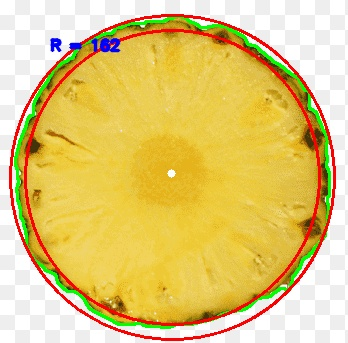
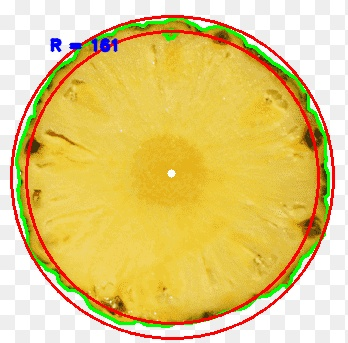
server test

Changed region(s): [[0.0, 0.0292, 0.977, 1.0]]

diff --git a/test.py b/test.py
@@ -1,98 +1,121 @@
-import cv2
-import numpy as np
 from scipy.spatial import distance as dist
+from imutils import perspective
+from imutils import contours
+import numpy as np
+import imutils
+import cv2
+
+class obj_size():
+
+    def __init__(self, image_path, width):
+        self.image_path = image_path
+        self.width = width
+
+    # Define midpoint coordinate operation
+    def midpoint(ptA, ptB):
+        return ((ptA[0] + ptB[0]) * 0.5, (ptA[1] + ptB[1]) * 0.5)
 
 
-# Define midpoint coordinate operation
-def midpoint(ptA, ptB):
-    return ((ptA[0] + ptB[0]) * 0.5, (ptA[1] + ptB[1]) * 0.5)
+    def compute(self):
+        # load image, convert grayscale, blur
+        image = cv2.imread(self.image_path)
+        gray = cv2.cvtColor(image, cv2.COLOR_RGB2GRAY)
+        gray = cv2.GaussianBlur(gray, (5,5), 0)
+        # perform edge detection, then perform a dilation + erosion to
+        # close gaps in between object edges
+        edged = cv2.Canny(gray, 50, 100)
+        edged = cv2.dilate(edged, None, iterations=1)
+        edged = cv2.erode(edged, None, iterations=1)
 
+        # Binary image
+        # ret, thresh = cv2.threshold(edged.copy(), 150, 200, 0)
+        # Calculate the coordinates of the four corner points of the black square
+        cnts, hierarchy = cv2.findContours(edged.copy(), cv2.RETR_EXTERNAL, cv2.CHAIN_APPROX_SIMPLE)
 
-def measure(img):
-    gray = cv2.cvtColor(img, cv2.COLOR_RGB2GRAY)
-    # Binary image
-    ret, thresh = cv2.threshold(gray, 150, 200, 0)
-    # Calculate the coordinates of the four corner points of the black square
-    contours, hierarchy = cv2.findContours(thresh, 1, 2)
-    for cnt in contours:
-        area = cv2.contourArea(cnt)
-        if area > 500:
-            print(area)
+        cnts = cnts[0] if imutils.is_cv2() else cnts[1]
+        # sort the contours from left-to-right and initialize the
+        # 'pixels per metric' calibration variable
+        (cnts, _) = contours.sort_contours(cnts)
+        pixelsPerMetric = None
 
-            # Find the geometric distance of the outline
-            M = cv2.moments(cnt)
-            # Get the bounding rectangle of the outline, x, y is the coordinate point of the upper left corner of the
-            # green frame, w, h is the length and width of the green frame
-            x, y, w, h = cv2.boundingRect(cnt)
-            # Calculate the minimum outline, red frame
-            rect = cv2.minAreaRect(cnt)
-            # Calculate the image coordinates of the four corners of the red frame
-            box = cv2.boxPoints(rect)
-            #  is an integer, so the coordinates are converted to integer
-            box = np.int0(box)
+        # define a list for keeping length or each object
+        mylist = []
+        for cnt in cnts:
+            area = cv2.contourArea(cnt)
+            if area > 500:
+                print(area)
+                # compute the rotated bounding box ò the contour
+                orig = image.copy()
+                box = cv2.minAreaRect(cnt)
+                box = cv2.boxPoints(box)
+                box = np.array(box, dtype="int")
 
-            if M['m00'] != 0:
-                # print(M)
-                cx = int(M['m10'] / M['m00'])
-                cy = int(M['m01'] / M['m00'])
-                # Based on the center point obtained by the geometric distance, draw the center circle, blocked by the
-                # blue line, so you can't see it.
-                cv2.circle(img, (np.int(cx), np.int(cy)), 2, (0, 255, 255), -1)
+                box = perspective.order_points(box)
+                cv2.drawContours(orig, [box.astype("int")], -1, (0,255,0), 2)
 
-                cv2.rectangle(img, (x, y), (x + w, y + h), (0, 255, 0), 2)
-
-                cv2.drawContours(img, [box], 0, (0, 0, 255), 2)
                 for (x, y) in box:
-                    cv2.circle(img, (int(x), int(y)), 5, (0, 0, 255), -1)
-                    # tl upper left corner image coordinate, tr upper right corner image coordinate,
-                    # br lower right corner image coordinate, bl lower left corner image coordinate
-                    (tl, tr, br, bl) = box
-                    # Calculate the center point of the 4 sides of the red frame
-                    (tltrX, tltrY) = midpoint(tl, tr)
-                    (blbrX, blbrY) = midpoint(bl, br)
-                    (tlblX, tlblY) = midpoint(tl, bl)
-                    (trbrX, trbrY) = midpoint(tr, br)
-                    #
-                    cv2.circle(img, (int(tltrX), int(tltrY)), 5, (255, 0, 0), -1)
-                    cv2.circle(img, (int(blbrX), int(blbrY)), 5, (255, 0, 0), -1)
-                    cv2.circle(img, (int(tlblX), int(tlblY)), 5, (255, 0, 0), -1)
-                    cv2.circle(img, (int(trbrX), int(trbrY)), 5, (255, 0, 0), -1)
-                    #  4 points, that is, 2 blue lines in the picture
-                    cv2.line(img, (int(tltrX), int(tltrY)), (int(blbrX), int(blbrY)),
-                             (255, 0, 0), 2)
-                    cv2.line(img, (int(tlblX), int(tlblY)), (int(trbrX), int(trbrY)),
-                             (255, 0, 0), 2)
-                    # Calculate the coordinates of the center point
-                    dA = dist.euclidean((tltrX, tltrY), (blbrX, blbrY))
-                    dB = dist.euclidean((tlblX, tlblY), (trbrX, trbrY))
-                    # Convert the image length to the actual length, 6.5 is equivalent to the scale, I use the mm unit,
-                    # that is, 1mm is equivalent to 6.5 images
+                    cv2.circle(orig, (int(x), int(y)), 5, (0, 0, 255), -1)
 
-                    dimA = dA / 6.5
-                    dimB = dB / 6.5
-                    # Print the calculation result on the original image, which is the yellow content.
+                (tl, tr, br, bl) = box
+                (tltrX, tltrY) = self.midpoint(tl, tr)
+                (blbrX, blbrY) = self.midpoint(bl, br)
 
-                    cv2.putText(img, "{:.1f}mm".format(dimA),
-                                (int(tltrX - 15), int(tltrY - 10)), cv2.FONT_HERSHEY_SIMPLEX,
-                                0.65, (0, 255, 255), 2)
-                    cv2.putText(img, "{:.1f}mm".format(dimB),
-                                (int(trbrX + 10), int(trbrY)), cv2.FONT_HERSHEY_SIMPLEX,
-                                0.65, (0, 255, 255), 2)
-        cv2.imshow("mo", img)
+                # compute the midpoint between the top-left and top-right points,
+                # followed by the midpoint between the top-righ and bottom-right
+                (tlblX, tlblY) = self.midpoint(tl, bl)
+                (trbrX, trbrY) = self.midpoint(tr, br)
 
+                # draw the midpoints on the image
+                cv2.circle(orig, (int(tltrX), int(tltrY)), 5, (255, 0, 0), -1)
+                cv2.circle(orig, (int(blbrX), int(blbrY)), 5, (255, 0, 0), -1)
+                cv2.circle(orig, (int(tlblX), int(tlblY)), 5, (255, 0, 0), -1)
+                cv2.circle(orig, (int(trbrX), int(trbrY)), 5, (255, 0, 0), -1)
 
-# Start the camera and set the resolution
-cap = cv2.VideoCapture(0)
-cap.set(cv2.CAP_PROP_FRAME_WIDTH, 800)
-cap.set(cv2.CAP_PROP_FRAME_HEIGHT, 600)
-# ret, frame = cap.read()
-# img = cv2.flip(frame, -1)
-img = cv2.imread('3.jpg')
-# Create a GUI window in the form of adaptive
-cv2.namedWindow("input image", cv2.WINDOW_AUTOSIZE)
-# Contact the image and window by name
-cv2.imshow("input image", img)
-cv2.waitKey(0)
-measure(img)
-cv2.waitKey(0)
+                # draw lines between the midpoints
+                ###cv2.line(orig, (int(tltrX), int(tltrY)), (int(blbrX), int(blbrY)),
+                ###	(255, 0, 255), 2)
+                ###cv2.line(orig, (int(tlblX), int(tlblY)), (int(trbrX), int(trbrY)),
+                ###	(255, 0, 255), 2)
+
+                cv2.line(orig, (int(tr[0]), int(tr[1])), (int(bl[0]), int(bl[1])),
+                         (255, 0, 255), 2)
+                cv2.line(orig, (int(tlblX), int(tlblY)), (int(trbrX), int(trbrY)),
+                         (255, 0, 255), 2)
+
+                # compute the Euclidean distance between the midpoints
+                ###dA = dist.euclidean((tltrX, tltrY), (blbrX, blbrY))
+                ###dB = dist.euclidean((tlblX, tlblY), (trbrX, trbrY))
+                dA = dist.euclidean((tr[0], tr[1]), (bl[0], bl[1]))
+                dB = dist.euclidean((tlblX, tlblY), (trbrX, trbrY))
+                # if the pixels per metric has not been initialized, then
+                # compute it as the ratio of pixels to supplied metric
+                # (in this case, inches)
+                if pixelsPerMetric is None:
+                    pixelsPerMetric = dB / self.width
+
+                # compute the size of the object
+                dimA = dA / pixelsPerMetric
+                dimB = dB / pixelsPerMetric
+
+                # keep dimB value in a list
+                mylist.append(dimA)
+                ##print (mylist[-1])
+
+                # draw the object sizes on the image
+                ##cv2.putText(orig, "{:.1f}in".format(dimA),
+                ##	(int(tr[0] - 15), int(tr[1] - 10)), cv2.FONT_HERSHEY_SIMPLEX,
+                ##	0.65, (255, 255, 255), 2)
+                ##cv2.putText(orig, "{:.1f}in".format(dimB),
+                ##	(int(trbrX + 10), int(trbrY)), cv2.FONT_HERSHEY_SIMPLEX,
+                ##	0.65, (255, 255, 255), 2)
+
+                # show the output image
+                ##cv2.imshow("Image", orig)
+                ##cv2.waitKey(0)
+                ##cv2.waitKey(0)
+                ##cv2.waitKey(0)
+                ##cv2.waitKey(0)
+
+                # print all dimB in a list
+            return str(mylist[-1])
 

diff --git a/test___.py b/test___.py
@@ -2,14 +2,14 @@ import cv2
 import numpy as np
 import imutils
 
-def getContours(img, cThr=None, minArea=7000):
+def getContours(img, cThr=None, minArea=10):
     if cThr is None:
         cThr = [100, 100]
     imgGray = cv2.cvtColor(img, cv2.COLOR_BGR2GRAY)
     imgBlur = cv2.GaussianBlur(imgGray, (5, 5), 0)
     imgCanny = cv2.Canny(imgBlur, cThr[0], cThr[1])
     kernel = np.ones((3, 3))
-    imgDial = cv2.dilate(imgCanny, kernel, iterations=3)
+    imgDial = cv2.dilate(imgCanny, kernel, iterations=2)
     imgThre = cv2.erode(imgDial, kernel, iterations=2)
 
     contours, hierarchy = cv2.findContours(imgThre,
@@ -25,32 +25,29 @@ def getContours(img, cThr=None, minArea=7000):
 
             # draw the contour and center of the shape on the image
             cv2.drawContours(image, [i], -1, (0, 255, 0), 2)
-            # cv2.drawContours(image, [contours[-1]], -1, (0, 255, 0), 2)
+            cv2.drawContours(image, [contours[-1]], -1, (0, 255, 0), 2)
             cv2.circle(image, (cX, cY), 4, (255, 255, 255), -1)
 
             # find radius contours
             (x, y), radius = cv2.minEnclosingCircle(i)
             center = (int(x), int(y))
             radius = int(radius)
-            cv2.circle(image, center, radius, (0, 0, 255), 2)
+            cv2.circle(image, center, radius + 15, (0, 0, 255), 2)
             cv2.circle(image, center, radius - 15, (0, 0, 255), 2)
             # Using cv2.putText() method
             cv2.putText(image, 'R = {}'.format(radius), (50,50), cv2.FONT_HERSHEY_SIMPLEX, 0.5, (255, 0, 0), 2, cv2.LINE_AA)
-            print('Ban kinh: {}'.format((radius)*2/100), 'mm')
 
-            print('Ban kinh: {}'.format((radius - 15)*2/100), 'mm')
-            # cv2.imshow('Canny Edges After Contouring', imgCanny)
-            cv2.imshow('Contours', image)
-            cv2.imwrite('result.jpg', image)
+            print('Ban kinh vong lon: {}'.format((radius)*2/100), 'mm')
+            print('Ban kinh vong be: {}'.format((radius - 15)*2/100), 'mm')
+
             return radius
 
 
 if __name__ == '__main__':
+
     image = cv2.imread('data/2.jpg')
     getContours(image)
-
-
-    # print(radius)
     cv2.imshow('Contours', image)
+    cv2.imwrite('result.jpg', image)
     cv2.waitKey(0)
     cv2.destroyAllWindows()

diff --git a/server.py b/server.py
@@ -1,0 +1,36 @@
+from flask import Flask, url_for, send_from_directory, request
+import logging, os
+from test import obj_size
+
+app = Flask(__name__)
+file_handler = logging.FileHandler('server.log')
+app.logger.addHandler(file_handler)
+app.logger.setLevel(logging.INFO)
+
+PROJECT_HOME = os.path.dirname(os.path.realpath(__file__))
+UPLOAD_FOLDER = '{}/data/'.format(PROJECT_HOME)
+app.config['UPLOAD_FOLDER'] = UPLOAD_FOLDER
+
+def create_new_folder(local_dir):
+    newpath = local_dir
+    if not os.path.exists(newpath):
+        os.makedirs(newpath)
+    return newpath
+@app.route('/', methods = ['POST'])
+def api_root():
+    app.logger.info(PROJECT_HOME)
+    if request.method == 'POST' and request.files['data']:
+        app.logger.info(app.config['UPLOAD_FOLDER'])
+        img = request.files['data']
+        img_name = img.filename
+        create_new_folder(app.config['UPLOAD_FOLDER'])
+        saved_path = os.path.join(app.config['UPLOAD_FOLDER'], img_name)
+        app.logger.info("saving {}".format(saved_path))
+        img.save(saved_path)
+        obj = obj_size("./data/sample.jpg", 1)
+        return obj.compute()
+
+    else: return "????????? IMAGE"
+
+if __name__ == '__main__':
+    app.run()

diff --git a/measure_R.py b/measure_R.py
@@ -3,10 +3,9 @@ from imutils import perspective
 from imutils import contours
 import numpy as np
 import argparse
-import imutils
 import cv2
 
-ref_width = 10  # in mm
+# ref_width = 20  # in mm
 
 
 def read_and_preproces(filename, canny_low= 50, canny_high = 100, blur_kernel=9, d_e_kernel=3):

diff --git a/main.py b/main.py
@@ -1,0 +1,16 @@
+from flask import Flask
+from test import obj_size
+
+app = Flask(__name__)
+
+@app.route('/')
+def hello():
+    return 'Hello'
+
+@app.route('/view')
+def size():
+    obj = obj_size('./1.jpg', 0.955)
+    return obj.compute()
+
+if __name__ == '__main__':
+    app.run()

diff --git a/Measure_obj.py b/Measure_obj.py
@@ -3,7 +3,7 @@ import utils
 
 ###################################
 webcam = True
-path = 'data/2.jpg'
+path = 'data/1.jpg'
 cap = cv2.VideoCapture(0)
 cap.set(10, 160)
 cap.set(3, 1920)

diff --git a/README.md b/README.md
@@ -1,3 +1,4 @@
 # Pineapple_pelling
 1. Measure radius of size Pineapple
 2. Measure dimention size obj
+3. 
